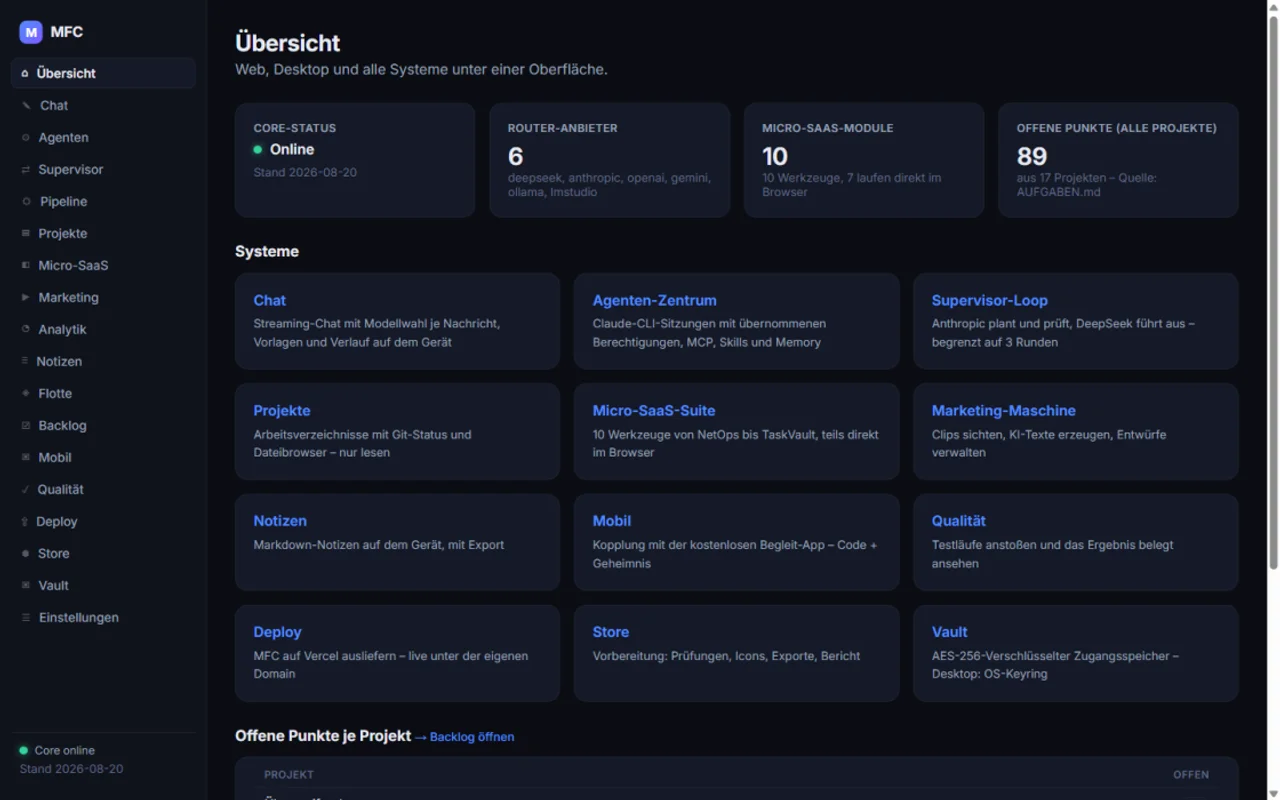
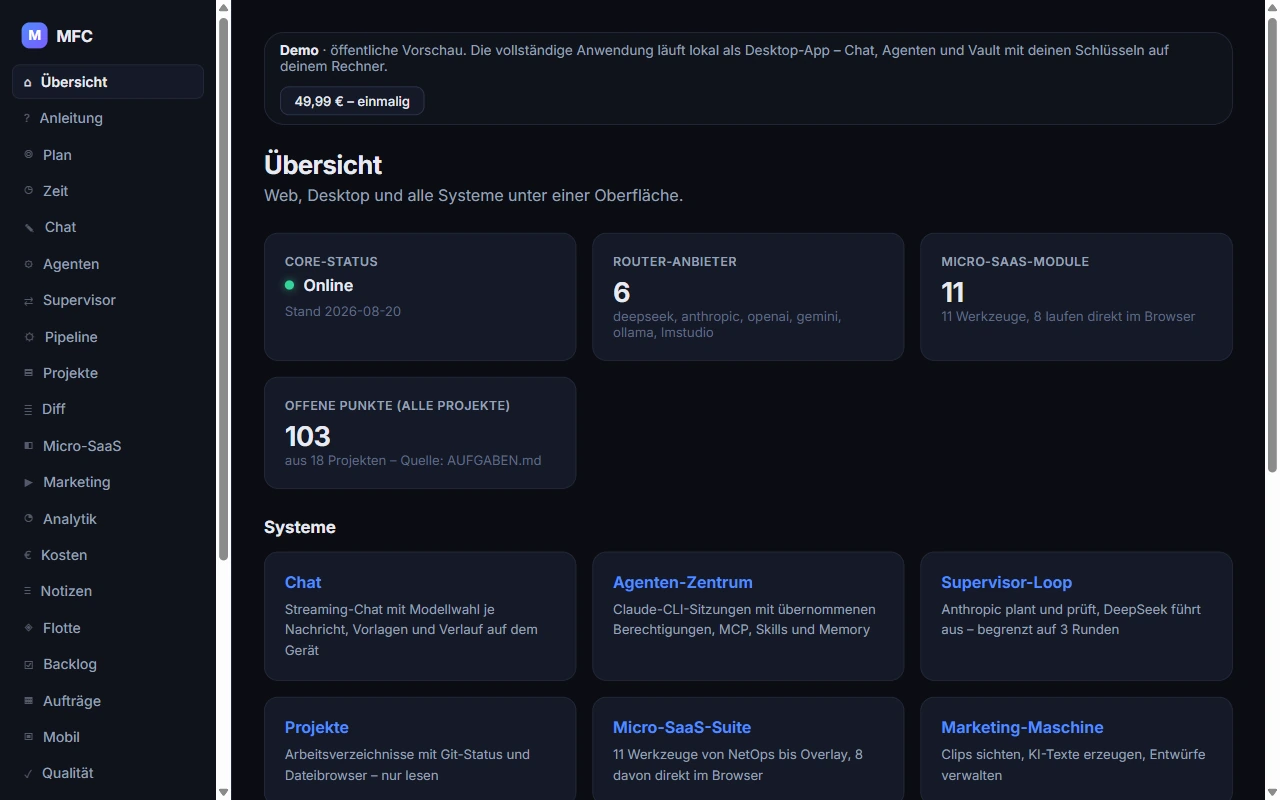
MFC-Aufnahme echt, Vortex zeigt drei App-Ansichten
Die MFC-WebP hatte kein Original-PNG, check:shots schlug fehl. Neu aufgenommen per Playwright auf mfc.domenicmoran.de/dashboard (1280x800), Alt-Text an die echte Web-Vorschau angepasst (Demo-Hinweis statt Seitenleiste).

Vortex zeigte ein Website-Screenshot; ersetzt durch drei echte App-Aufnahmen aus Vortex/marke/laden (Start, Pruefung, So-funktioniert-es, je 1170x2340), DE und EN spiegelbildlich.

check:parity vereinheitlicht jetzt auch Dezimaltrennzeichen: 49,99 und 49.99 sind dieselbe Zahl (MFC-Preis), nur deutsch und englisch gesetzt.

Geprueft: tsc 0, eslint 0, vitest 44/44, build gruen (36 Seiten), check:shots 45 Bilder, check:parity 121 Vergleiche, check:links 838 Verweise ohne toten Verweis.

diff --git a/src/content/en.ts b/src/content/en.ts
@@ -281,10 +281,10 @@ export const en: Content = {
       shots: [
         {
           src: "/shots/mfc/dashboard.webp",
-          alt: "The MFC dashboard: dark interface with sidebar, status cards for core, router providers, modules and backlog, and the system tiles below.",
+          alt: "The MFC dashboard in the web preview: the demo notice at the top, the status cards for core status, router providers, micro-SaaS modules and open items, and the grid of the twelve systems from chat to vault below.",
           width: 1280,
           height: 800,
-          label: "Dashboard · live",
+          label: "Dashboard · web preview",
         },
       ],
     },
@@ -1267,11 +1267,27 @@ export const en: Content = {
       architecture: "",
       shots: [
         {
-          src: "/shots/vortex/aufnahme-02-ergebnis-web.webp",
-          alt: "The result of the check: the score with verdict at the top, the checked features with reasoning below, and the price comparison to the original.",
-          width: 1265,
-          height: 2274,
+          src: "/shots/vortex/aufnahme-01-start.webp",
+          alt: "The app's start screen: the wordmark at the top, the input field for the shop link below, and the note that the analysis runs on the device.",
+          width: 1170,
+          height: 2340,
+          label: "Start · paste a shop link",
+          variant: "phone",
+        },
+        {
+          src: "/shots/vortex/aufnahme-02-pruefung.webp",
+          alt: "The result of a check: the score with verdict at the top, the checked features with reasoning below, and the price comparison to the original.",
+          width: 1170,
+          height: 2340,
           label: "Assessment · with reasoning",
+          variant: "phone",
+        },
+        {
+          src: "/shots/vortex/aufnahme-03-so-funktioniert-es.webp",
+          alt: "The explanation “How it works”: paste a link, check the features, see the original price — three steps, all on the device.",
+          width: 1170,
+          height: 2340,
+          label: "How it works · three steps",
           variant: "phone",
         },
       ],

diff --git a/src/content/site.ts b/src/content/site.ts
@@ -448,10 +448,10 @@ export const caseStudies: CaseStudy[] = [
     shots: [
       {
         src: "/shots/mfc/dashboard.webp",
-        alt: "Das MFC-Dashboard: dunkle Oberfläche mit Seitenleiste, Statuskarten für Core, Router-Anbieter, Module und Backlog, darunter die Systemkacheln.",
+        alt: "Das MFC-Dashboard in der Web-Vorschau: oben der Demo-Hinweis, darunter die Statuskarten für Core-Status, Router-Anbieter, Micro-SaaS-Module und offene Punkte, darunter das Raster der zwölf Systeme von Chat bis Vault.",
         width: 1280,
         height: 800,
-        label: "Dashboard · live",
+        label: "Dashboard · Web-Vorschau",
       },
     ],
   },
@@ -1547,11 +1547,27 @@ export const caseStudies: CaseStudy[] = [
     architecture: "",
     shots: [
       {
-        src: "/shots/vortex/aufnahme-02-ergebnis-web.webp",
-        alt: "Das Ergebnis der Prüfung: oben die Punktzahl mit Urteil, darunter die geprüften Merkmale mit Begründung und der Preisvergleich zum Original.",
-        width: 1265,
-        height: 2274,
+        src: "/shots/vortex/aufnahme-01-start.webp",
+        alt: "Der Startbildschirm der App: oben das Wortzeichen, darunter das Eingabefeld für den Shop-Link und der Hinweis, dass die Auswertung auf dem Gerät läuft.",
+        width: 1170,
+        height: 2340,
+        label: "Start · Shop-Link einfügen",
+        variant: "phone",
+      },
+      {
+        src: "/shots/vortex/aufnahme-02-pruefung.webp",
+        alt: "Das Ergebnis einer Prüfung: oben die Punktzahl mit Urteil, darunter die geprüften Merkmale mit Begründung und der Preisvergleich zum Original.",
+        width: 1170,
+        height: 2340,
         label: "Bewertung · mit Begründung",
+        variant: "phone",
+      },
+      {
+        src: "/shots/vortex/aufnahme-03-so-funktioniert-es.webp",
+        alt: "Die Erklärung „So funktioniert es“: Shop-Link einfügen, Merkmale prüfen, Originalpreis sehen – in drei Schritten, alles auf dem Gerät.",
+        width: 1170,
+        height: 2340,
+        label: "So funktioniert es · drei Schritte",
         variant: "phone",
       },
     ],

diff --git a/docs/archiv/PORTFOLIO-MFC-VORTEX-2026-08-21.md b/docs/archiv/PORTFOLIO-MFC-VORTEX-2026-08-21.md
@@ -1,0 +1,61 @@
+# Portfolio: MFC-Screenshot und Vortex-App-Aufnahmen · 2026-08-21
+
+Zwei Qualitätsmängel im Bewerbungs-Portfolio behoben. Stand aller Angaben vor
+dem Commit gegen die Repos und die Live-Systeme geprüft.
+
+## 1. MFC — fehlendes Original, Alt-Text falsch
+
+Die Fallstudie „Moran Fleet Control“ (index 00) war bereits vollständig
+angelegt: Kurzbeschreibung, Live-URL `https://mfc.domenicmoran.de`, Preis
+49,99 € einmalig, eine WebP-Aufnahme. Was fehlte, war das **Original-PNG**
+zur ausgelieferten WebP: `check:shots` schlug mit
+„mfc/dashboard.webp: kein Original unter ../assets/shots/mfc/dashboard.png“
+fehl.
+
+Behoben:
+
+- Echte Aufnahme per Playwright auf `https://mfc.domenicmoran.de/dashboard`
+  (1280 × 800), abgelegt als `../assets/shots/mfc/dashboard.png`, WebP über
+  `npm run build:shots` neu erzeugt.
+- Alt-Text und Beschriftung in `site.ts` und `en.ts` an die echte Web-Vorschau
+  angepasst: Das Web-Dashboard zeigt einen Demo-Hinweis und Statuskarten
+  (Core-Status, Router-Anbieter, Micro-SaaS-Module, offene Punkte), keine
+  Seitenleiste. Label „Dashboard · Web-Vorschau“ statt „Dashboard · live“.
+
+## 2. Vortex — Website-Bild ersetzt durch App-Aufnahmen
+
+Die Fallstudie zeigte nur ein Website-Screenshot
+(`aufnahme-02-ergebnis-web.webp`, 1265 × 2274). Ersetzt durch drei echte
+App-Aufnahmen aus `Vortex/marke/laden/`:
+
+| Datei | Inhalt | Maß |
+|---|---|---|
+| aufnahme-01-start.webp | Startbildschirm, Shop-Link-Eingabe | 1170 × 2340 |
+| aufnahme-02-pruefung.webp | Prüfergebnis mit Punktzahl und Begründung | 1170 × 2340 |
+| aufnahme-03-so-funktioniert-es.webp | „So funktioniert es“, drei Schritte | 1170 × 2340 |
+
+Originale nach `../assets/shots/vortex/` kopiert, WebP erzeugt, in `site.ts`
+und `en.ts` referenziert (DE + EN spiegelbildlich). Die alte Web-Aufnahme
+und ihr Original wurden entfernt.
+
+## 3. check:parity — Dezimaltrennzeichen
+
+`check:parity` meldete eine Abweichung auf dem One-Pager: deutsch „49,99“,
+englisch „49.99“ — dieselbe Zahl (MFC-Preis), nur lokalisiert gesetzt. Die
+Zahlen-Normalisierung in `scripts/check-parity.mjs` hat nur Tausender-,
+nicht Dezimaltrennzeichen vereinheitlicht. Ergänzt, sodass „49,99“ und
+„49.99“ als dieselbe Zahl gelten. Kein weiterer Zahlenwert war betroffen.
+
+## Belege
+
+| Prüfung | Ergebnis |
+|---|---|
+| `npx tsc --noEmit` | 0 Fehler |
+| `npx eslint src/content/site.ts src/content/en.ts` | 0 Errors |
+| `npm test` | 8 Dateien, 44 Tests grün |
+| `npm run build` | grün, 36 statische Seiten |
+| `npm run check:shots` | 45 Bilder, 12 Gruppen einheitlich |
+| `npm run check:parity` | 10 Seitenpaare, 121 Vergleiche ohne Abweichung |
+| `npm run check:links` | 838 Verweise, kein toter Verweis |
+| `npm run check:docs` | 469 Angaben stimmen |
+| `npm run check:onepager` | beide Blätter aus aktuellem Inhalt |
